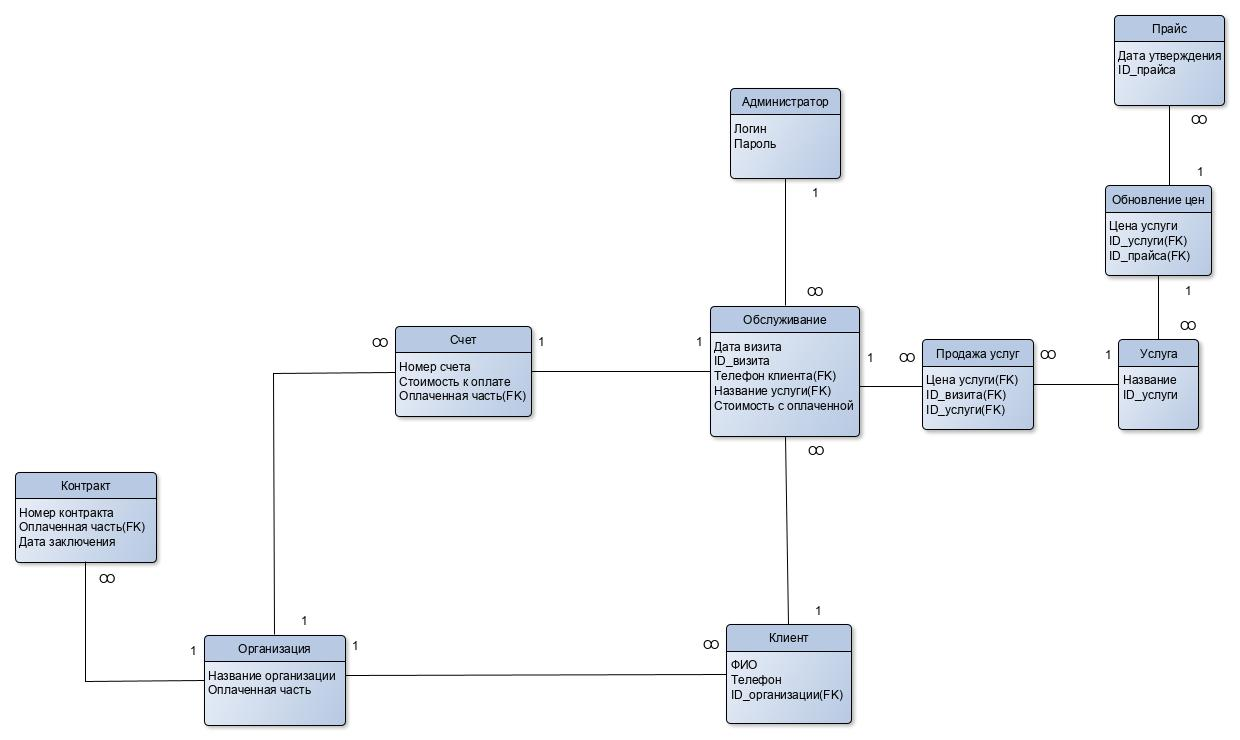
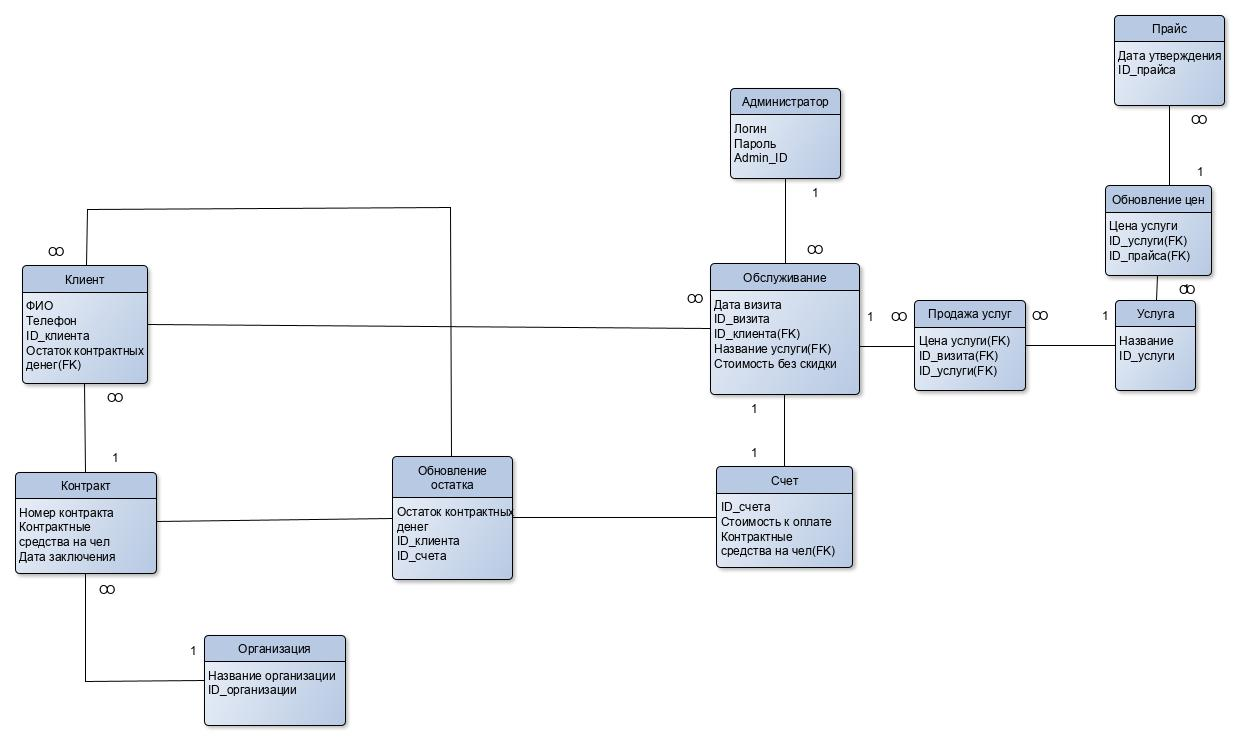
change

diff --git a/ИС/IS.tex b/ИС/IS.tex
@@ -267,7 +267,7 @@
 \begin{figure}[h]
 
 	\begin{minipage}[h]{1\linewidth}
-		\centering{ 	\includegraphics[width=1\linewidth]{ИС/images/ERD.jpg}\\}
+		\centering{ 	\includegraphics[width=1\linewidth]{images/ERD.jpg}\\}
 		\caption{ ERD диаграмма.}
 	\end{minipage}
 	
@@ -279,7 +279,7 @@
 \begin{figure}[h]
 	
 	\begin{minipage}[h]{1\linewidth}
-		\centering{ 	\includegraphics[width=1\linewidth]{ИС/images/REL.jpg}\\}
+		\centering{ 	\includegraphics[width=1\linewidth]{images/REL.jpg}\\}
 		\caption{Модель БД}
 	\end{minipage}
 	
@@ -296,8 +296,8 @@
 			\begin{tabular}[c]{@{}l@{}}Название атрибута\\ (поля)\end{tabular} & Домен& Ключи & Описание                  \\ \hline
 			ContranctNum                                                       & integer            & PK    & Номер контракта           \\ \hline
 			DateContract                                                       & date DEFAULT\\ & CURDATE()               &       & Дата заключения контракта \\ \hline
-			PaidSum                                                            & numeric(7,2)\\
-			&CHECK (VALUE >0)       & FK(tblCompany)      & Оплаченная стоимость      \\ \hline
+			ContractSum                                                            & numeric(7,2)\\
+			&CHECK (VALUE >0)       &       & Контрактные ср-ва на чел      \\ \hline
 		\end{tabular}
 	\end{table}
 
@@ -317,7 +317,6 @@
 		\begin{tabular}[c]{@{}l@{}}Название атрибута\\ (поля)\end{tabular} & Домен  & Ключи & Описание                  \\ \hline
 		CompanyId                                                          & integer            & PK    & Идентификатор организации \\ \hline
 		CompanyName                                                        & var(40) NOT NULL           &       & Название организации      \\ \hline
-		PaidSum                                                            & numeric(7,2) \\&CHECK (VALUE >0)      &       & Оплаченная стоимость      \\ \hline
 	\end{tabular}
 \end{table}
 
@@ -329,10 +328,12 @@
 	\begin{tabular}{|l|l|l|l|}
 		\hline
 		\begin{tabular}[c]{@{}l@{}}Название атрибута\\ (поля)\end{tabular} & Домен  & Ключи          & Описание             \\ \hline
-		Number                                                             & integer \\ &CHECK (VALUE >0)          & PK             & Телефон клиента      \\ \hline
+		ClientId                                                          & integer            & PK    & Идентификатор клиента \\ \hline
+		Number                                                             & integer \\ &CHECK (VALUE >0)          &              & Телефон клиента      \\ \hline
 		ClientName                                                         & varchar(40) NOT NULL       &                & Имя клиента          \\ \hline
 		ClientLastName                                                     & varchar(35) NOT NULL       &                & Фамилия клиента      \\ \hline
 		ClientMiddleName                                                   & varchar(35) NOT NULL       &                & Отчество клиента     \\ \hline
+			Ostatok                                                   & numeric(7,2)       & FK(tblNewOst)                & Остаток от контрактной\\& & & суммы     \\ \hline
 	\end{tabular}
 \end{table}
 
@@ -416,14 +417,23 @@
 		\hline
 		\begin{tabular}[c]{@{}l@{}}Название атрибута\\ (поля)\end{tabular} & Домен  & Ключи          & Описание                   \\ \hline
 		VisitData                                                          & date DEFAULT\\& CURDATE()              &                & Дата визита                \\ \hline
-		HandlingId                                                         & integer            & PK             & Идентификатор обслуживания \\ \hline
+		VisitId                                                         & integer            & PK             & Идентификатор обслуживания \\ \hline
 		Service                                                            & varchar(40) NOT NULL       & FK(tblService) & Название услуги            \\ \hline
-		Number                                                             & integer CHECK\\ &(VALUE >0)           & FK(tblClient)  & Телефон клиента            \\ \hline
-			PricewoCom                                                             & integer CHECK\\ &(VALUE >0) Т*          &   & Стоимость без оплаченной 
-			\\& &стоимости \\ \hline
+	ClientId                                                             & integer           & FK(tblClient)  & Телефон клиента            \\ \hline
+			PricewoCom                                                             & integer CHECK\\ &(VALUE >0)  $T*$          &   & Стоимость без скидки 
+			 \\ \hline
 	\end{tabular}
 \end{table}
-
+\begin{table}[h]
+		\caption{Описание отношения Обновление остатков (tblNewOst)}
+	\begin{tabular}{|l|l|l|l|}
+		\hline
+		\begin{tabular}[c]{@{}l@{}}Название атрибута\\ (поля)\end{tabular} & Домен  & Ключи          & Описание                 \\ \hline
+		ClientId                                                            & integer            & FK(tblClient)   & Идентификатор клиента \\ \hline
+		CheckId                                                          & integer            & FK(tblCheck) & Идентификатор счета    \\ \hline
+		                                                         Ostatok    & numeric(7,2)  $T*$      &                & Остаток от контрактной суммы             \\ \hline
+	\end{tabular}
+\end{table}
 
 \begin{table}[h]
 		\caption{Описание отношения Счет(tblCheck)
@@ -432,6 +442,9 @@
 		\hline
 		\begin{tabular}[c]{@{}l@{}}Название атрибута\\ (поля)\end{tabular} & Домен & Ключи & Описание           \\ \hline
 		CheckId                                                            & integer            & РК    & Идентификатор чека \\ \hline
+	
+			ContractSum                                                            & numeric(7,2)\\
+			&CHECK (VALUE >0)       & FK(tblContract)      & Контрактные ср-ва на чел      \\ \hline
 		FinalPrice                                                         & numeric(7,2)   $T*$  &       & Стоимость к оплате \\ \hline
 		
 		
